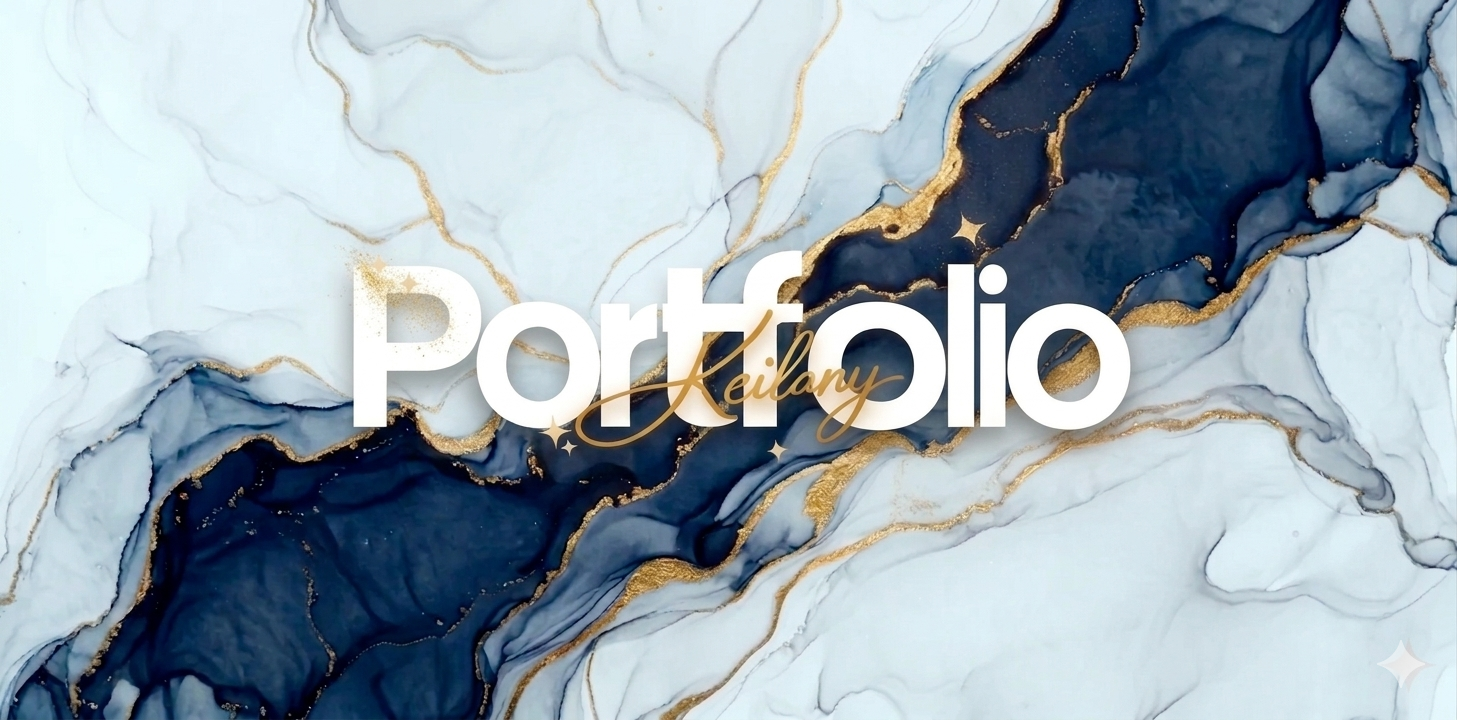
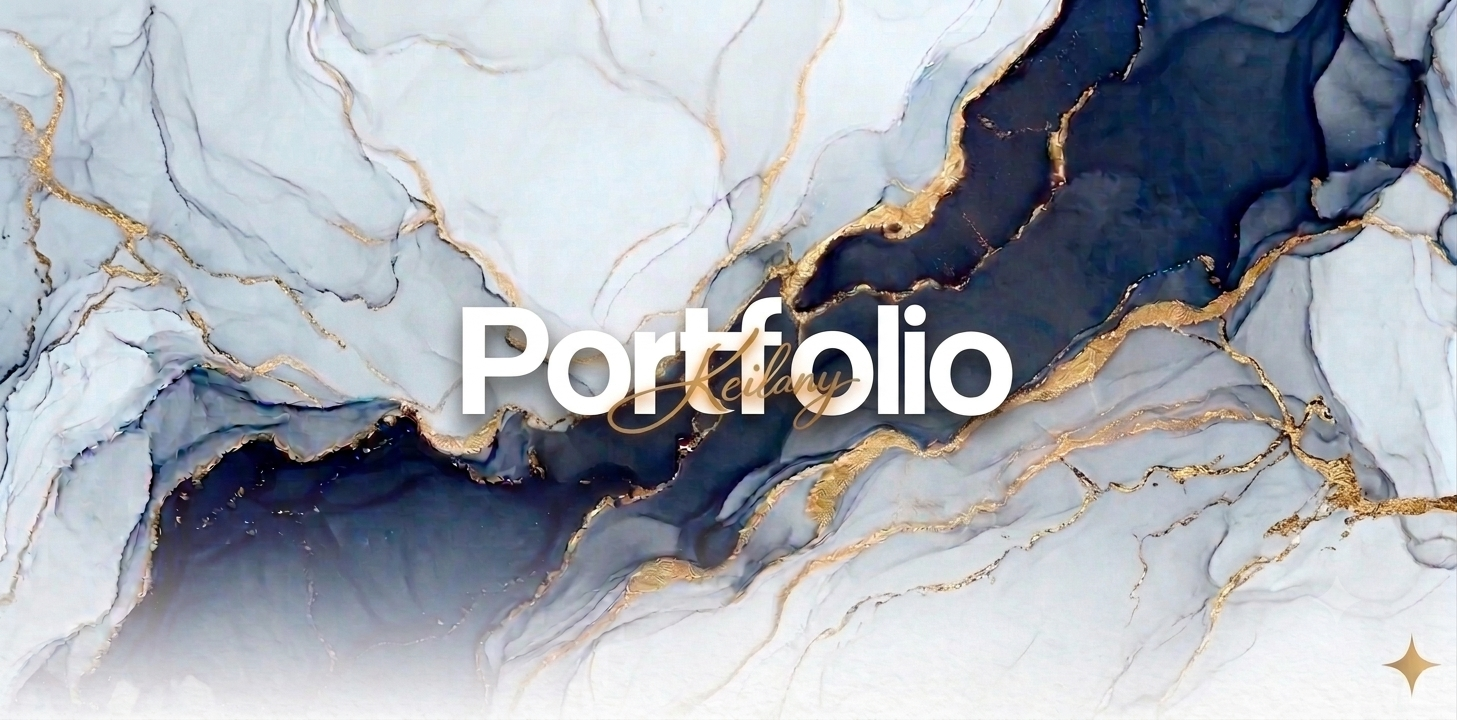
Atualizando a Hero

diff --git a/src/components/sobremim/index.jsx b/src/components/sobremim/index.jsx
@@ -11,7 +11,7 @@ const SobreMim = () => {
       <div className="hero-container w-full overflow-hidden">
         <img
           src={Hero}
-          alt="Keilany com tablet"
+          alt="Banner com nome portfolio"
           loading="lazy"
           className="
   w-full